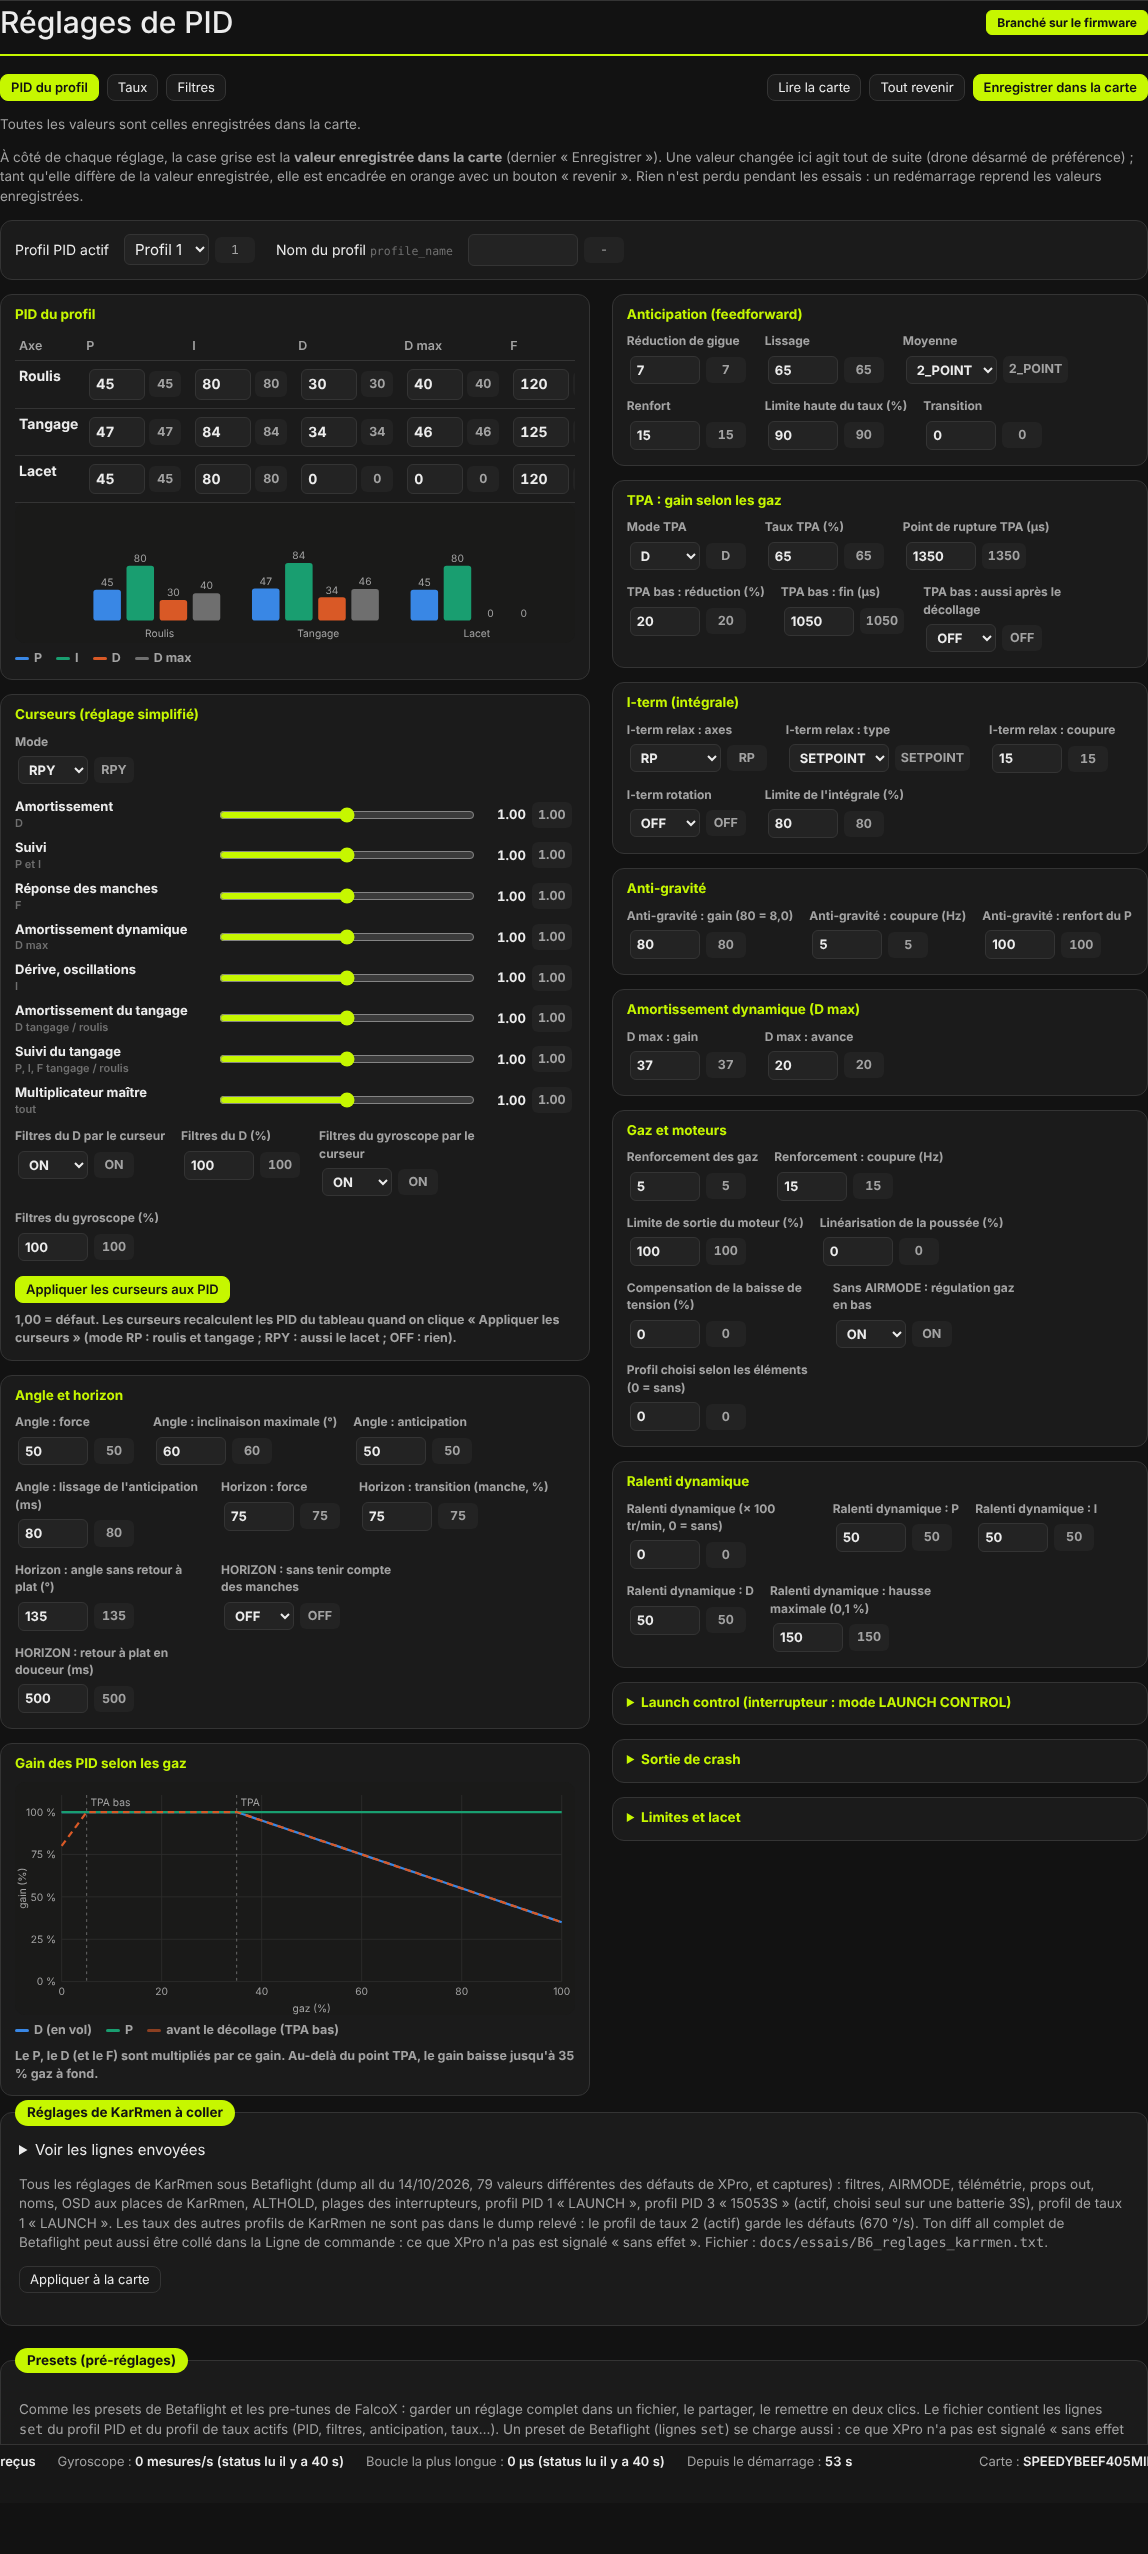
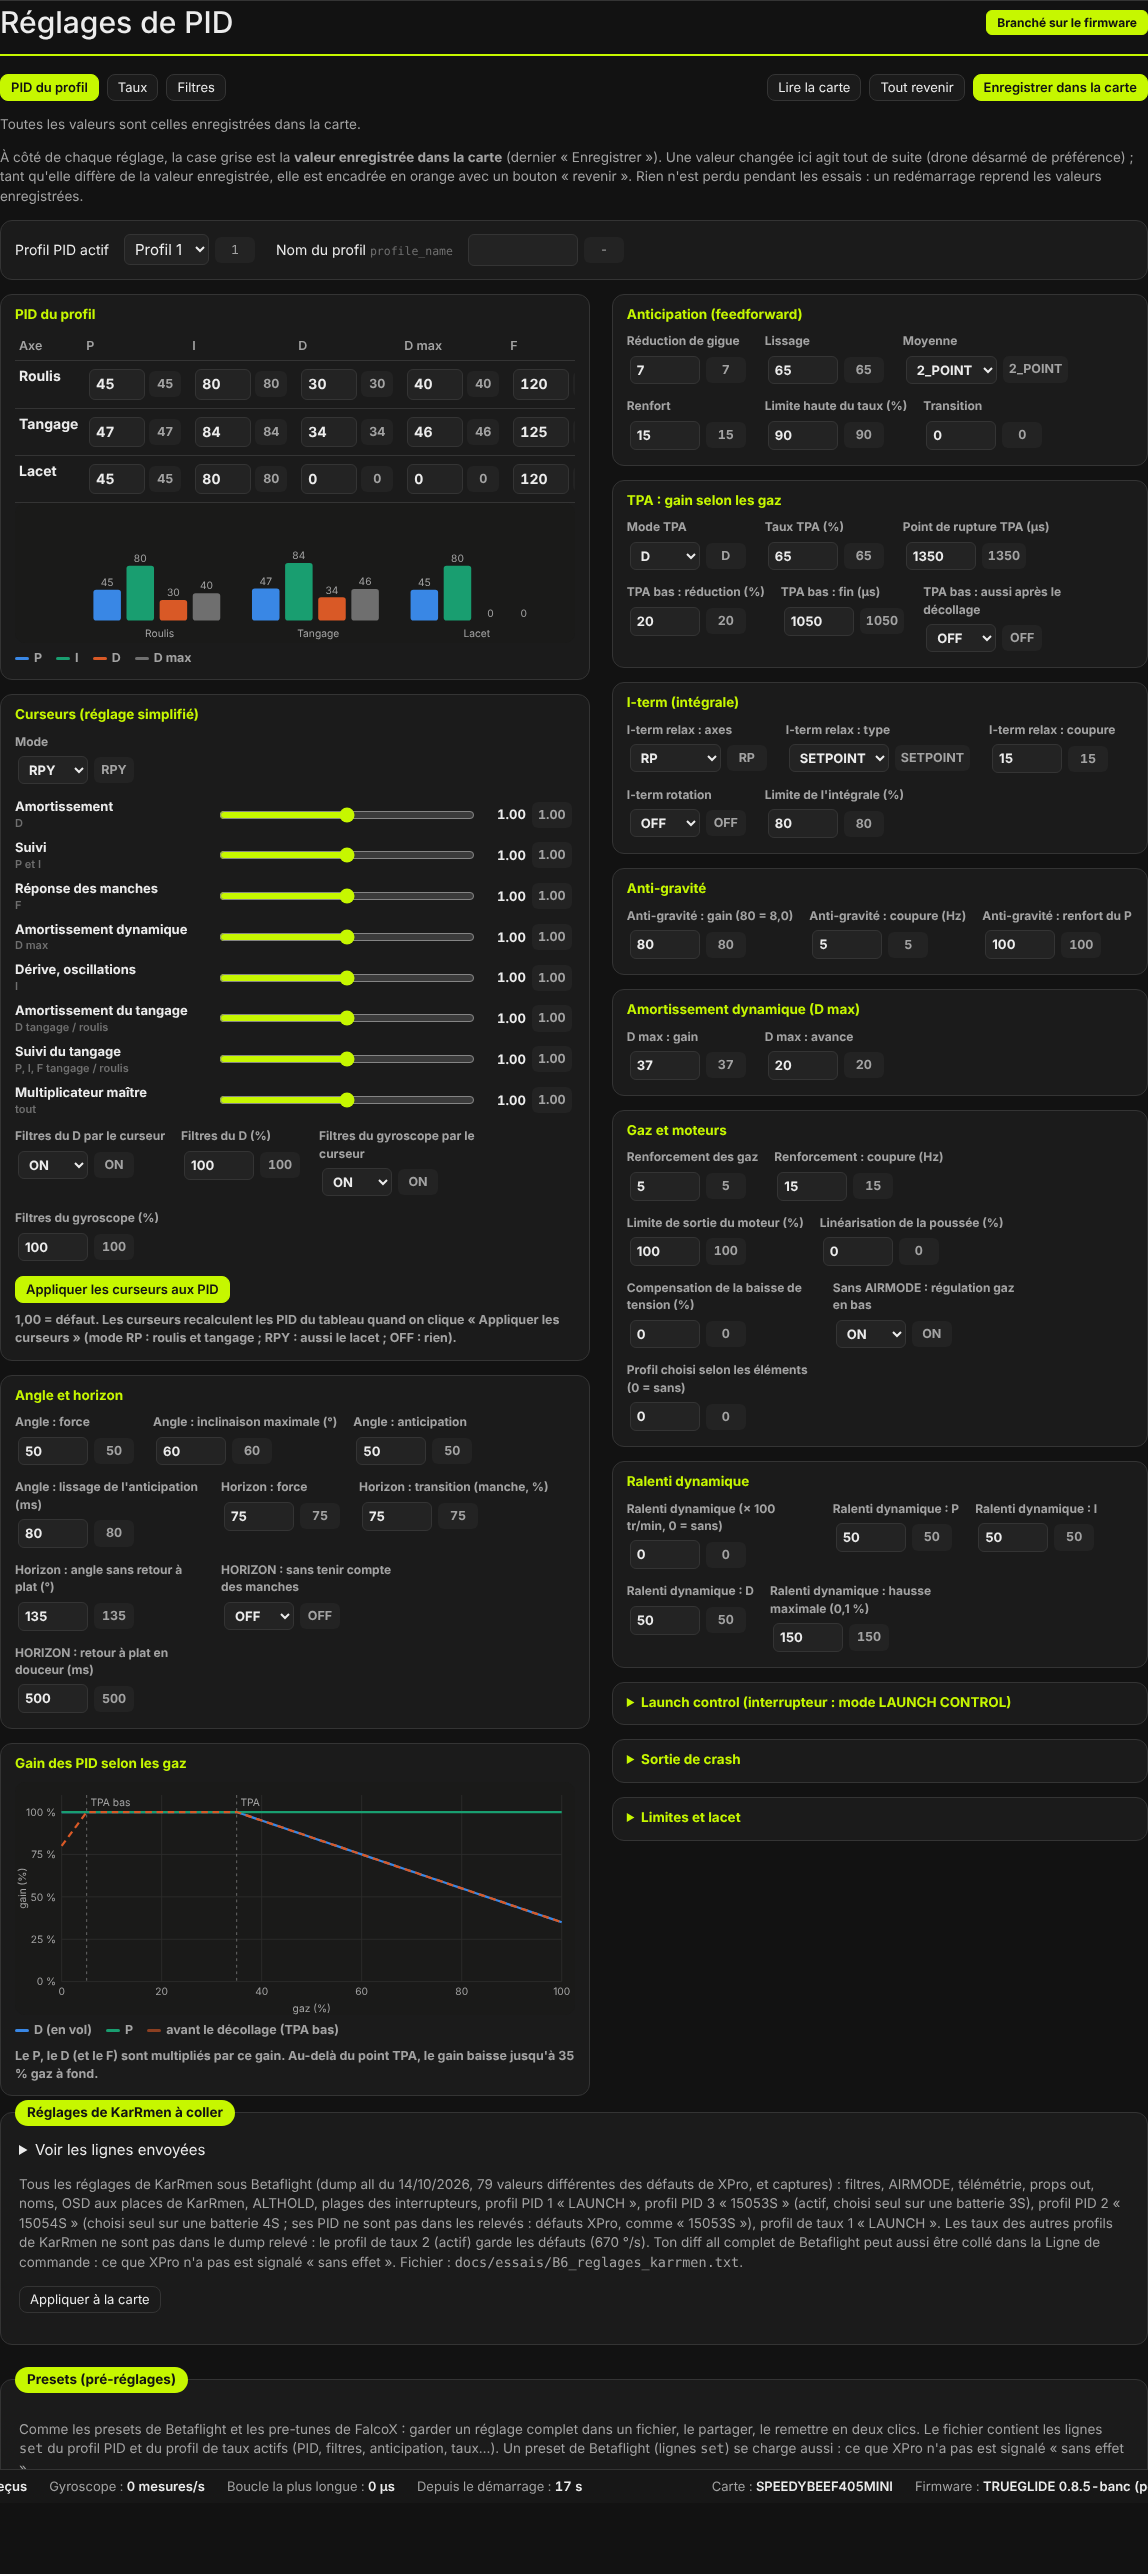
0.8.5 : notes de version, profil selon la batterie, captures en thème clair corrigées

diff --git a/docs/notes-de-version.html b/docs/notes-de-version.html
@@ -75,6 +75,7 @@
     </ul>
     <h2>Sur cette page</h2>
     <ul>
+      <li><a href="#v085">0.8.5</a></li>
       <li><a href="#v084">0.8.4</a></li>
       <li><a href="#v083">0.8.3</a></li>
       <li><a href="#v082">0.8.2</a></li>
@@ -85,10 +86,29 @@
 
   <article>
     <h1>Notes de version</h1>
-    <p class="chapeau">Ce qui change dans le firmware et le logiciel XPro, de la 0.8.0 à la 0.8.4. Chaque version se
+    <p class="chapeau">Ce qui change dans le firmware et le logiciel XPro, de la 0.8.0 à la 0.8.5. Chaque version se
       termine par un seul essai sur KarRmen ; on ne passe à la suivante qu'avec l'essai réussi.</p>
     <p>Les versions 0.8.x sont des versions de banc (« 0.8.4-banc » dans <code>version</code>). Les mesures citées sont
       celles de KarRmen.</p>
+
+    <h2 id="v085">0.8.5 : profil choisi selon la batterie</h2>
+    <p>Firmware écrit le 23/10/2026. Essai prévu : V1b (premier vol refait en 4S 1300), puis V2. 3 719 vérifications
+      sur PC.</p>
+    <p>Au vol V1, KarRmen a volé sa 4S sur le profil 3S « 15053S ». La carte choisit bien le profil PID selon le nombre
+      d'éléments (<code>auto_profile_cell_count</code>, comme Betaflight), mais aucun profil n'était réglé pour la 4S.</p>
+    <h3>Firmware</h3>
+    <ul>
+      <li><b>Avertissement</b> : drone désarmé, si le profil PID actif est réglé pour un autre nombre d'éléments que la
+        batterie branchée, les lunettes affichent <code>BAT 4S PROFIL 3S</code> et <code>status</code> le dit à la ligne
+        batterie. L'armement reste possible. Sans profil lié à une batterie (défaut), rien ne change.</li>
+    </ul>
+    <h3>Logiciel</h3>
+    <ul>
+      <li>Onglet <a href="alimentation.html#profils">Alimentation et batterie</a> : tableau des 6 profils PID (nom,
+        batterie qui le choisit, doublons signalés), capacité, alarmes et mesure de la tension et du courant.</li>
+      <li>Lignes de KarRmen : profil 2 « 15054S » choisi en 4S, profil 3 « 15053S » en 3S.</li>
+      <li>Thème clair : les lignes à coller étaient illisibles (texte foncé sur fond noir) ; corrigé.</li>
+    </ul>
 
     <h2 id="v084">0.8.4 : suites du premier vol</h2>
     <p>Firmware écrit le 18/10/2026. Essai prévu : V2 (menu des lunettes hélices retirées, puis vol dehors en ANGLE).

diff --git a/docs/alimentation.html b/docs/alimentation.html
@@ -188,6 +188,9 @@
       choisit (« aucune » = profil choisi seulement à la main). Ce sont des réglages par profil : le logiciel passe sur
       chaque profil pour les lire ou les changer, puis revient au profil actif. Deux profils avec le même nombre
       d'éléments sont signalés : seul le premier serait choisi.</p>
+    <p>Depuis la 0.8.5, si aucun profil n'est réglé pour la batterie branchée et que le profil actif est réglé pour une
+      autre, les lunettes affichent <code>BAT 4S PROFIL 3S</code> (drone désarmé), <code>status</code> le dit et le même
+      texte s'affiche en rouge sous le tableau. L'armement reste possible : c'est ce qui s'est passé au vol V1.</p>
     <div class="tableau"><table>
       <tr><th>KarRmen</th><th>Nom</th><th>Batterie</th></tr>
       <tr><td>Profil PID 2</td><td>15054S</td><td>4S (Tattu R-Line 1300 et 1550, Funfly 1550)</td></tr>

diff --git a/docs/cli.html b/docs/cli.html
@@ -360,7 +360,7 @@ Octets USB perdus : 0 (envoi 0, reception 0)</pre></div>
     </table></div>
     <div class="encart">Points relevés dans cet exemple et notés au journal des essais : réponses absentes des moteurs
       3 et 4 (7,1 % et 9,3 %), 28 erreurs CRC du récepteur en 77 s, 785 erreurs série sur l'UART1. Les deux premiers
-      sont au programme de la 0.8.5. Le journal était à 35 % : à effacer avant l'essai suivant.</div>
+      sont au programme d’une version suivante (pont des ESC : 0.8.6). Le journal était à 35 % : à effacer avant l'essai suivant.</div>
   </article>
 </div>
 
